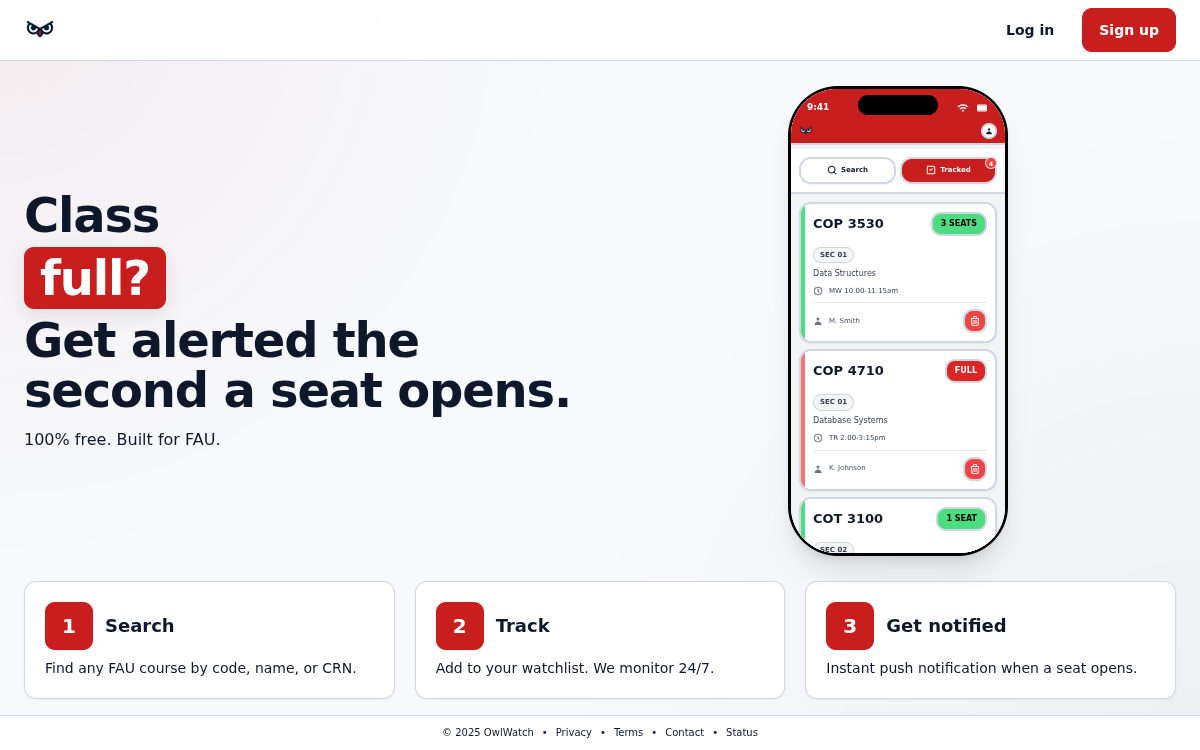
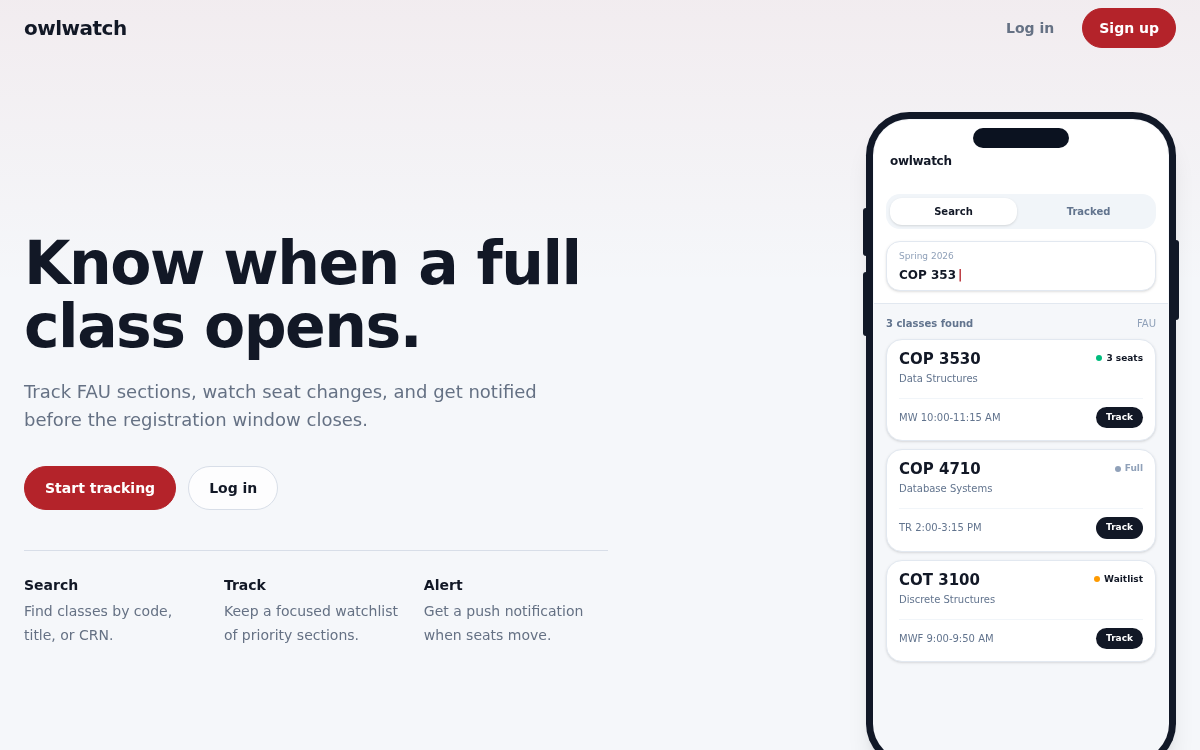
Update portfolio projects

diff --git a/src/data/projects.ts b/src/data/projects.ts
@@ -12,12 +12,28 @@ export type Project = {
 // Shipped work, in display order.
 export const PROJECTS: readonly Project[] = [
   {
+    name: 'Tryouts',
+    description:
+      'Video-first creator casting for UGC teams, agencies, and founder-led brands. Post a brief, collect auditions, and review AI-ranked shortlists.',
+    href: 'https://tryouts.com',
+    tag: 'SaaS',
+    thumb: '/thumb/tryouts.png',
+  },
+  {
     name: 'iowe',
     description:
       'Split any receipt. Snap a photo, tap your items, share a link, and everyone sees what they owe. No math required.',
     href: 'https://iowe.app',
     tag: 'Web App',
     thumb: '/thumb/iowe.png',
+  },
+  {
+    name: 'OwlWatch',
+    description:
+      'FAU course-seat tracker with magic-link auth, instant email and push alerts, and a smart worker that watches seats around the clock.',
+    href: 'https://owlwatch.app',
+    tag: 'Next.js',
+    thumb: '/thumb/owlwatch.png',
   },
   {
     name: 'Build-A-Bear Uploader',
@@ -27,14 +43,6 @@ export const PROJECTS: readonly Project[] = [
     tag: 'Chrome Extension',
     thumb: '/thumb/buildabear.png',
     repo: 'https://github.com/edwarddjss/Build-A-Bear-Audio-Uploader-Extension',
-  },
-  {
-    name: 'OwlWatch',
-    description:
-      'Tracks FAU course-seat availability and fires instant email and push alerts the moment a spot opens up.',
-    href: 'https://owlwatch.app',
-    tag: 'Next.js',
-    thumb: '/thumb/owlwatch.png',
   },
   {
     name: 'ExpoSnap',

diff --git a/src/data/about.ts b/src/data/about.ts
@@ -5,11 +5,11 @@ export const SITE = {
   role: 'Software Engineer',
   url: 'https://edwarddjss.me',
   description:
-    'Software engineer building developer tools, AI tooling, and the occasional thing for fun.',
+    'Software engineer building useful apps, developer tools, and AI-native products.',
 } as const;
 
 // About section. Each string is a paragraph.
 export const BIO: readonly string[] = [
-  'I think in products. At 13 I was importing goods from overseas and selling them on eBay and on storefronts I built myself, years before I could write a real line of code. The instinct stuck: find a gap, build the thing that fills it.',
-  'A decade later that instinct runs on software. I pull ideas out of everyday friction, the small annoyances most people just live with, and turn them into tools people actually use. Developer utilities, AI-native apps, whatever the problem needs. I’d rather ship the thing than talk about building it.',
+  'Software engineer building useful products across web apps, browser extensions, AI tooling, and developer utilities.',
+  'I focus on shipping simple tools that solve real problems and feel good to use.',
 ];
